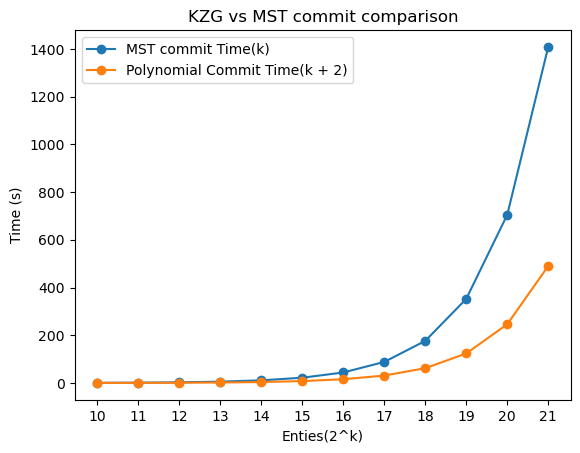
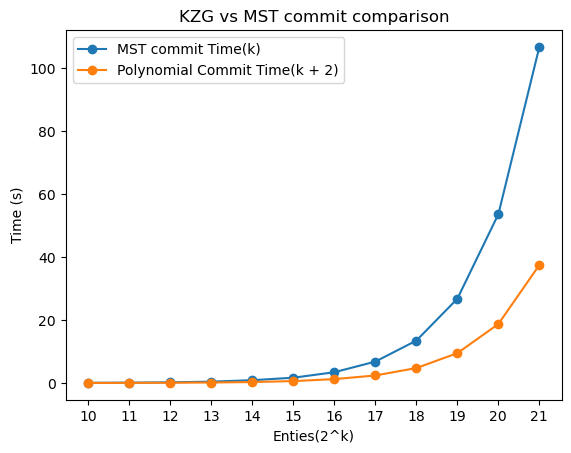
update optimized result

diff --git a/README.md b/README.md
@@ -19,18 +19,18 @@ Note: We adjusted the value for the K factor upwards when evaluating polynomial 
 
 | Entries(2^k)  |   MST commit time(s) |   Polynomial Commit time(s) |   Performance Ratio (MST/Poly) |
 |---:|------------------:|-------------------------:|----------:|
-| 10 |          0.704    |                 0.261    |  x2.692   |
-| 11 |          1.382    |                 0.511    |  x2.703   |
-| 12 |          2.752    |                 1.011    |  x2.722   |
-| 13 |          5.556    |                 2.044    |  x2.718   |
-| 14 |         11.074    |                 3.963    |  x2.794   |
-| 15 |         22.015    |                 7.923    |  x2.778   |
-| 16 |         44.049    |                15.692    |  x2.807   |
-| 17 |         88.211    |                31.043    |  x2.841   |
-| 18 |        176.363    |                61.961    |  x2.846   |
-| 19 |        352.468    |               123.681    |  x2.849   |
-| 20 |        704.646    |               245.971    |  x2.864   |
-| 21 |       1408.12     |               490.199    |  x2.872   |
+| 10 |             0.056 |                    0.020 | x2.740 |
+| 11 |             0.112 |                    0.040 | x2.815 |
+| 12 |             0.212 |                    0.079 | x2.692 |
+| 13 |             0.422 |                    0.153 | x2.763 |
+| 14 |             0.886 |                    0.302 | x2.937 |
+| 15 |             1.681 |                    0.600 | x2.800 |
+| 16 |             3.421 |                    1.230 | x2.781 |
+| 17 |             6.803 |                    2.391 | x2.845 |
+| 18 |            13.476 |                    4.748 | x2.838 |
+| 19 |            26.773 |                    9.482 | x2.824 |
+| 20 |            53.631 |                   18.735 | x2.863 |
+| 21 |           106.782 |                   37.491 | x2.848 |
 
 Run on AMD 5950X, 64GB RAM, 16 cores.
 
@@ -52,7 +52,7 @@ tar -xjf csv_files.tar.bz2
 You can also run on your local machine:
 
 ```bash
-> cargo run --bin comparing-mst-kzg
+> cargo run -r --bin comparing-mst-kzg
 ```
 
 ## Testing KZG commitment on KZGCircuit
@@ -69,11 +69,11 @@ However, the circuit demands a substantial number of rows to generate a proof.
 
 | Task                   | Duration        |
 |------------------------|----------------:|
-| Loading user data      |  44.950ms       |
-| Evaluating commitment  | 439.141ms       |
-| Generating vkey        |  141.388s       |
-| Generating pkey        |   61.444s       |
-| Proving time           |  241.209s       |
+| Loading user data      |   4.526ms       |
+| Evaluating commitment  |  16.418ms       |
+| Generating vkey        |   8.319s        |
+| Generating pkey        |   6.704s        |
+| Proving time           |  16.157s        |
 
 Additional Information:
 - Gate Chip | Phase 0: 7474506 advice cells, 990516 lookup advice cells
@@ -86,11 +86,11 @@ Additional Information:
 By default, the code will use the `./src/csv/entry_16.csv` file. You can compile and run the project using the standard commands:
 
 ```bash
-> cargo run --bin kzg-circuit
+> cargo run -r --bin kzg-circuit
 ```
 
 If you want to test with a larger set $2^{15}$, the `./src/csv/two_assets/two_assets_entry_2_15.csv` file instead, you can enable the large feature when building or running the project:
 
 ```bash
-> cargo run --bin kzg-circuit --features large-entry
+> cargo run -r --bin kzg-circuit --features large-entry
 ```
